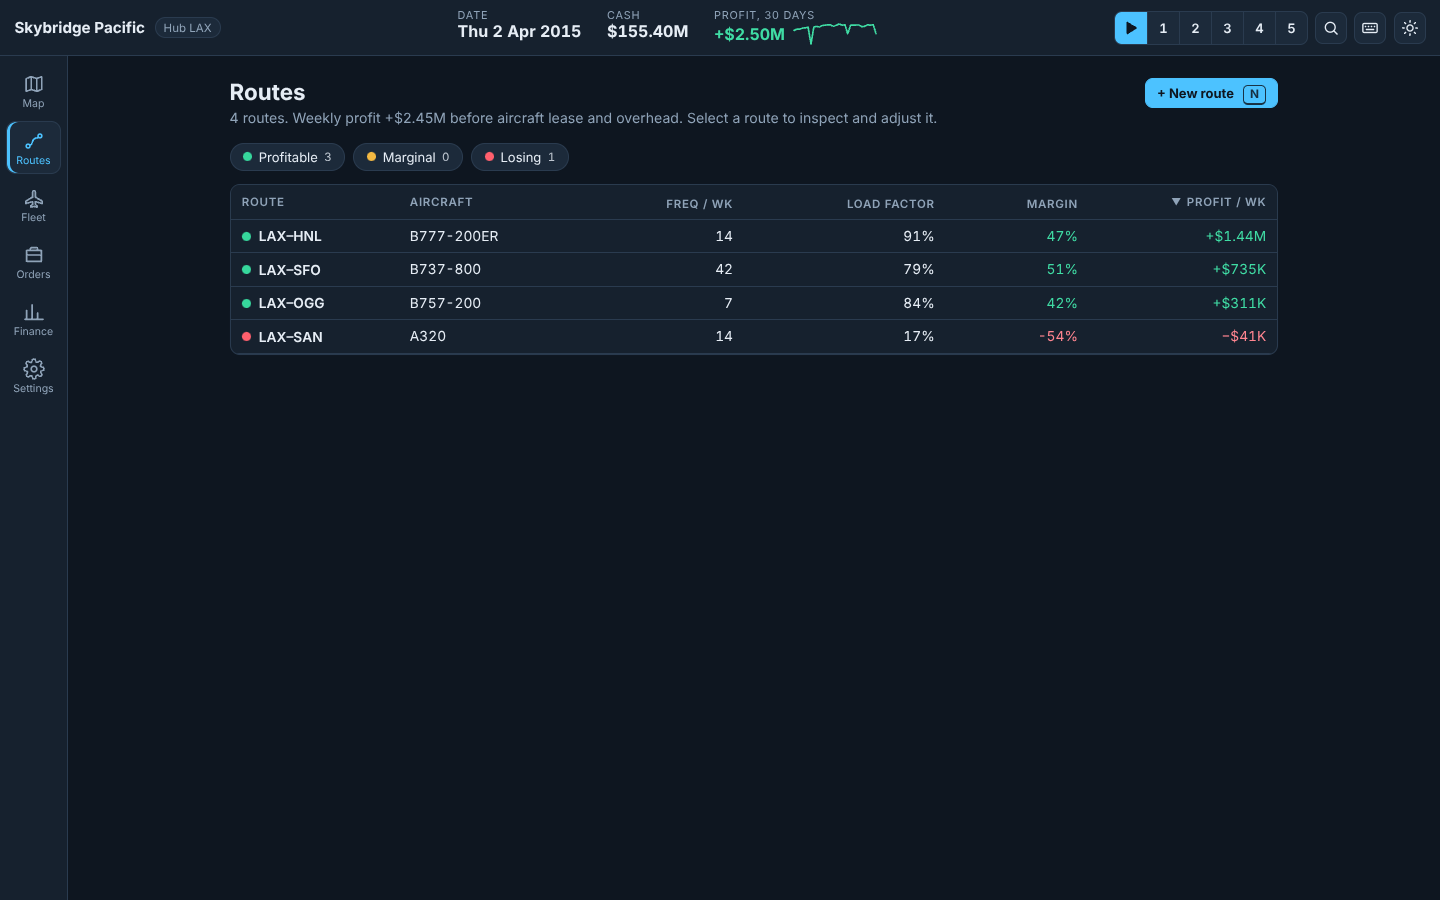
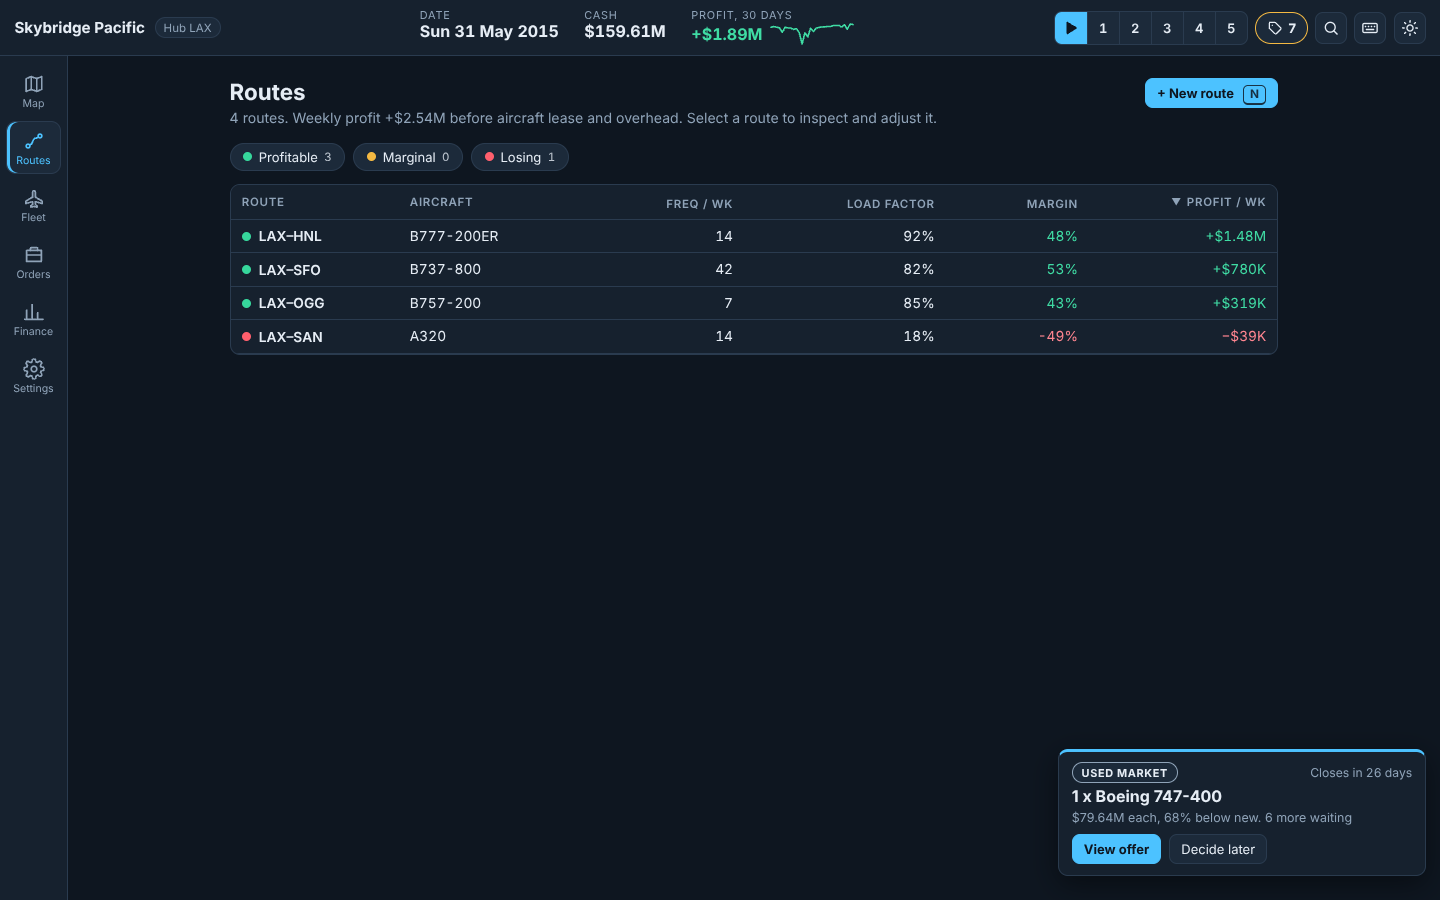
app: tidy offer price row, screenshot step for Offers tab; STATUS notes
Claude-Session: https://claude.ai/code/session_015x49XiTD16ohK7Q8Any9F9

diff --git a/packages/app/src/offers/OfferCard.tsx b/packages/app/src/offers/OfferCard.tsx
@@ -35,7 +35,7 @@ export function OfferCard({ offer, day, cash }: { offer: OfferItem; day: number;
         <div><dt>Available</dt><dd>{offer.quantity} of {offer.initialQuantity}</dd></div>
         <div>
           <dt>Price each</dt>
-          <dd>{formatMoney(offer.unitPriceUsd)} <s className="offer-list">{formatMoney(offer.listPriceUsd)}</s> <strong className="pos">{Math.round(offer.discount * 100)}% off</strong></dd>
+          <dd className="offer-price"><span>{formatMoney(offer.unitPriceUsd)}</span><s className="offer-list">{formatMoney(offer.listPriceUsd)}</s><strong className="pos">{Math.round(offer.discount * 100)}% off</strong></dd>
         </div>
         <div><dt>Deposit</dt><dd>{Math.round(offer.depositFraction * 100)}% ({formatMoney(offer.unitPriceUsd * offer.depositFraction)} each), credited back at delivery</dd></div>
         <div><dt>Delivery</dt><dd>{windowText(offer, day, q)}{typical && offer.kind !== "used" && offer.kind !== "distressed" ? <span className="offer-sub">{typical}</span> : null}</dd></div>

diff --git a/packages/app/src/offers/offers.css b/packages/app/src/offers/offers.css
@@ -40,3 +40,5 @@
 .offer-popup-sub { font-size: .78rem; color: var(--text-dim); }
 .offer-popup-actions { display: flex; gap: .5rem; margin-top: .4rem; }
 .offers-badge { border-color: var(--accent); }
+.offer-facts dd.offer-price { display: flex; flex-wrap: wrap; align-items: baseline; gap: .1rem .6rem; }
+.offer-price s { margin: 0; display: inline; }

diff --git a/STATUS.md b/STATUS.md
@@ -17,7 +17,7 @@ Last updated: Sun 1 Nov 2026 (night). `main` passes typecheck, test (data 12, si
 | T10 UI shell | done | top bar, toolbar, feed, decision cards, command palette |
 | T11 route inspector/creation | done | sandbox, inspector, why-ledger lines |
 | T12 fleet/order book/checks | mostly done | orders with delivery delays, A-D checks, scheduler, Fleet/Orders views. Cabin layout selector disabled |
-| T13 offers panel | not started | launch-customer, end-of-life, distressed-lot offers |
+| T13 offers panel | done (lane/offers) | launch, end-of-life, flash-sale and used offers; Offers tab, popup, badge. See MODEL.md "Offers" |
 | T14 basic rivals | not started | only synthetic rival carriers inside the market model |
 | T15 why ledger and hub board | partial | ledger in inspector; hub board not started |
 | T16 save/load, cabin sliders, light polish | not started | |
@@ -34,6 +34,11 @@ Last updated: Sun 1 Nov 2026 (night). `main` passes typecheck, test (data 12, si
 - Bundle about 2 MB (maplibre + deck.gl); split chunks.
 - Toasts overlap page headers on non-map views; Finance cash chart y-axis labels may clip.
 - Decision cards expire after 45 days.
+
+## Offers lane notes
+- Offer orders scale ownership cost by net price / list (`ownershipFactor`); ordinary orders still only change the deposit, so their volume discount is cash-neutral. Consider generalising.
+- Used/distressed aircraft arrive with age and hours but their check clocks start fresh.
+- Offer popup has no screenshot yet (screenshots.mjs captures the Offers tab only).
 
 ## Usage rules from the owner
 Mon afternoon/evening: keep about 30% free. Tue: unrestricted. Wed: none. Thu: after 3pm Pacific only. Fri-Sun: up to 80%. Finish early with cheaper models; quality can be revised later.
